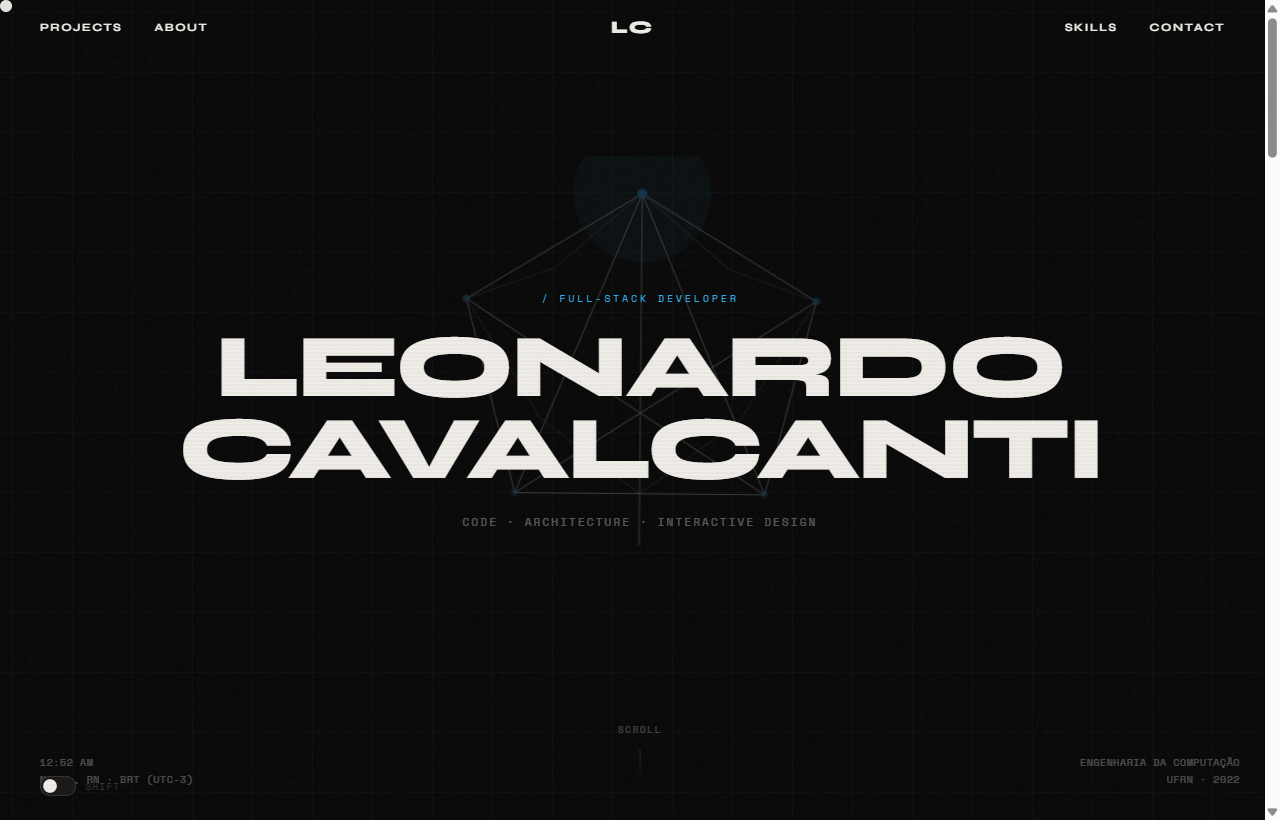
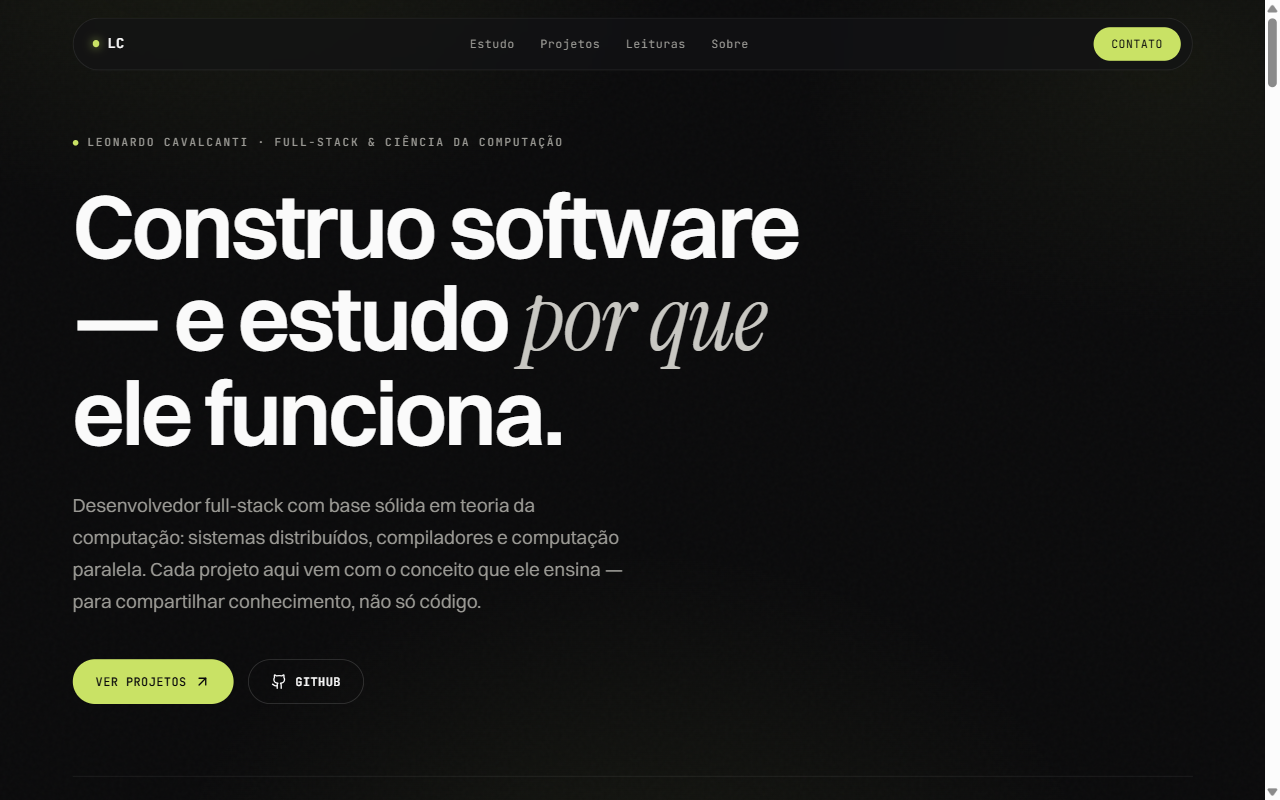
docs: atualiza README e preview para o redesign editorial + foco academico
README descrevia a estetica antiga (yutaabe, cursor custom, lights-out,
Syne, componentes ja removidos). Reescrito para a nova identidade wibify
(Switzer/Instrument Serif/JetBrains Mono, nav de vidro, secoes de areas
de estudo e leituras). Preview recapturado do site ao vivo.

diff --git a/README.md b/README.md
@@ -7,7 +7,9 @@
 ![Framer Motion](https://img.shields.io/badge/Framer_Motion-0055FF?logo=framer&logoColor=white)
 ![License](https://img.shields.io/badge/license-MIT-green)
 
-Portfólio pessoal com tema dark minimalista, tipografia grande e bold e estética tecno/editorial — inspirado em yutaabe.com. Single-page com scroll suave entre seções.
+Portfólio pessoal com identidade editorial: fundo quase-preto, verde-limão ácido como único acento e tipografia que mistura **Switzer** (display) com **Instrument Serif** (itálico) e **JetBrains Mono** (rótulos). Single-page com scroll suave e revelações escalonadas.
+
+O viés é **acadêmico**: cada projeto é apresentado junto ao conceito de Ciência da Computação que ele estuda, e há uma seção de **leituras de referência** — a ideia é compartilhar conhecimento com quem visita o perfil, não só listar trabalhos.
 
 **🔗 Ver ao vivo: [leonardopcavalcanti.github.io/portfolio](https://leonardopcavalcanti.github.io/portfolio/)**
 
@@ -15,20 +17,20 @@ Portfólio pessoal com tema dark minimalista, tipografia grande e bold e estéti
 
 ## Destaques
 
-- **Acessibilidade real:** suporte completo a `prefers-reduced-motion` — todos os loops e transições são neutralizados para usuários sensíveis a movimento, preservando o conteúdo.
-- **Motion proposital:** entrada do hero em _stagger_ via Framer Motion (opacity + translateY + blur, easing `easeOutExpo`), reveal-on-scroll via `IntersectionObserver` e micro-interações nos projetos.
-- **Cursor customizado** com `mix-blend-mode: difference` e card de preview que segue o ponteiro — desativado automaticamente em dispositivos touch.
-- **SEO & social:** meta tags Open Graph/Twitter e cartão social gerado (`og-image.svg`).
+- **Foco acadêmico:** seção "Áreas de estudo" (cards numerados) e seção "Leituras de referência" (Lamport, Dragon Book, Amdahl, Kleppmann…); cada projeto traz o conceito que ensina.
+- **Acessibilidade real:** suporte completo a `prefers-reduced-motion` — animações de entrada e revelações são neutralizadas, preservando o conteúdo.
+- **Motion proposital:** entrada do hero em _stagger_ via Framer Motion (opacity + translateY + blur, easing `easeOutExpo`) e reveal-on-scroll via `IntersectionObserver`.
+- **SEO & social:** meta tags Open Graph/Twitter e cartão social (`og-image.svg`).
 - **Tipado de ponta a ponta**, sem `any`, com ESLint + Prettier; build limpo (`tsc && vite build`).
 - **CI/CD:** deploy automático no GitHub Pages a cada push em `main`.
 
 ## Stack
 
 - **React 18 + Vite + TypeScript**
-- **Tailwind CSS v3** + CSS Modules para animações específicas
+- **Tailwind CSS v3**
 - **Framer Motion** · **Lucide React**
 - **React Router DOM v6**
-- Fontes: **Syne** + **Space Mono** (Google Fonts)
+- Fontes: **Switzer** (Fontshare) + **Instrument Serif** + **JetBrains Mono** (Google Fonts)
 - Deploy: **GitHub Pages** via GitHub Actions
 
 ## Desenvolvimento
@@ -59,18 +61,19 @@ Alternativa manual: `npm run deploy` (usa `gh-pages`).
 ```
 src/
 ├── components/
-│   ├── layout/      Header, Footer
-│   ├── ui/          Cursor, LightsOutToggle, RevealOnScroll, Ticker, ProjectPreviewCard
-│   └── sections/    Hero, Projects, About, Skills, Contact
-├── data/            projects, skills, experience
-├── hooks/           useCursor, useReveal, useClock
-├── styles/          globals.css, animations.module.css
+│   ├── layout/      Header (nav de vidro), Footer (logo grande)
+│   ├── ui/          RevealOnScroll
+│   └── sections/    Hero, FocusAreas, Projects, References, About, Skills, Contact
+├── data/            projects, focusAreas, references, skills, experience
+├── hooks/           useReveal
+├── styles/          globals.css
 └── types/           interfaces compartilhadas
 ```
 
 ## Notas de design
 
-- **Cores:** `#080808` (fundo) · `#F0EDE8` (texto) · `#30b8ff` (accent) · `#3a3835` (dim) · `#1a1816` (borda)
-- **Cursor customizado** com `mix-blend-mode: difference` — desabilitado em dispositivos touch.
-- **Lights Out** escurece tudo exceto o toggle.
-- Overlays de **noise** e **scanlines** em pseudo-elementos do `body`.
+- **Cores:** `#0a0a0b` (fundo) · `#fafafa` (texto) · `#c9e265` (acento limão) · `#9a9994` (muted) · `#131316` (painel)
+- **Tipografia:** títulos em Switzer 600 com acentos em Instrument Serif itálico; rótulos e nomes de arquivo em JetBrains Mono.
+- **Navegação** em "pílula de vidro" (backdrop-blur) flutuante.
+- **Atmosfera:** brilhos limão muito tênues + grão fino em pseudo-elementos do `body`.
+- Linguagem visual inspirada na estética editorial da [wibify.agency](https://wibify.agency).
